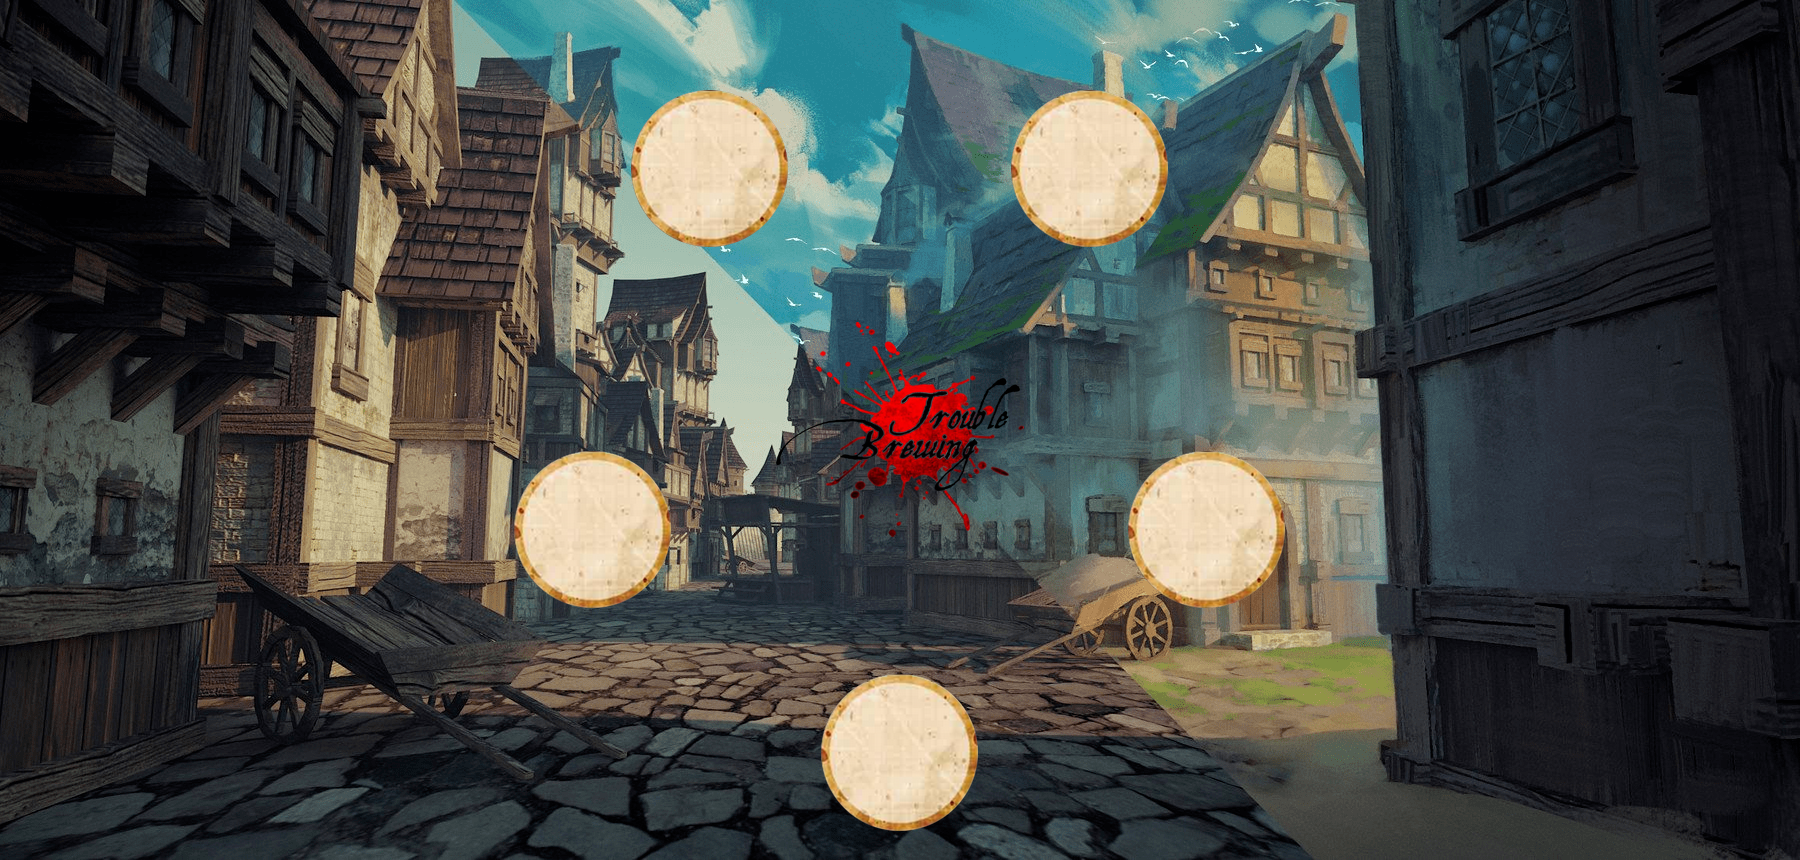
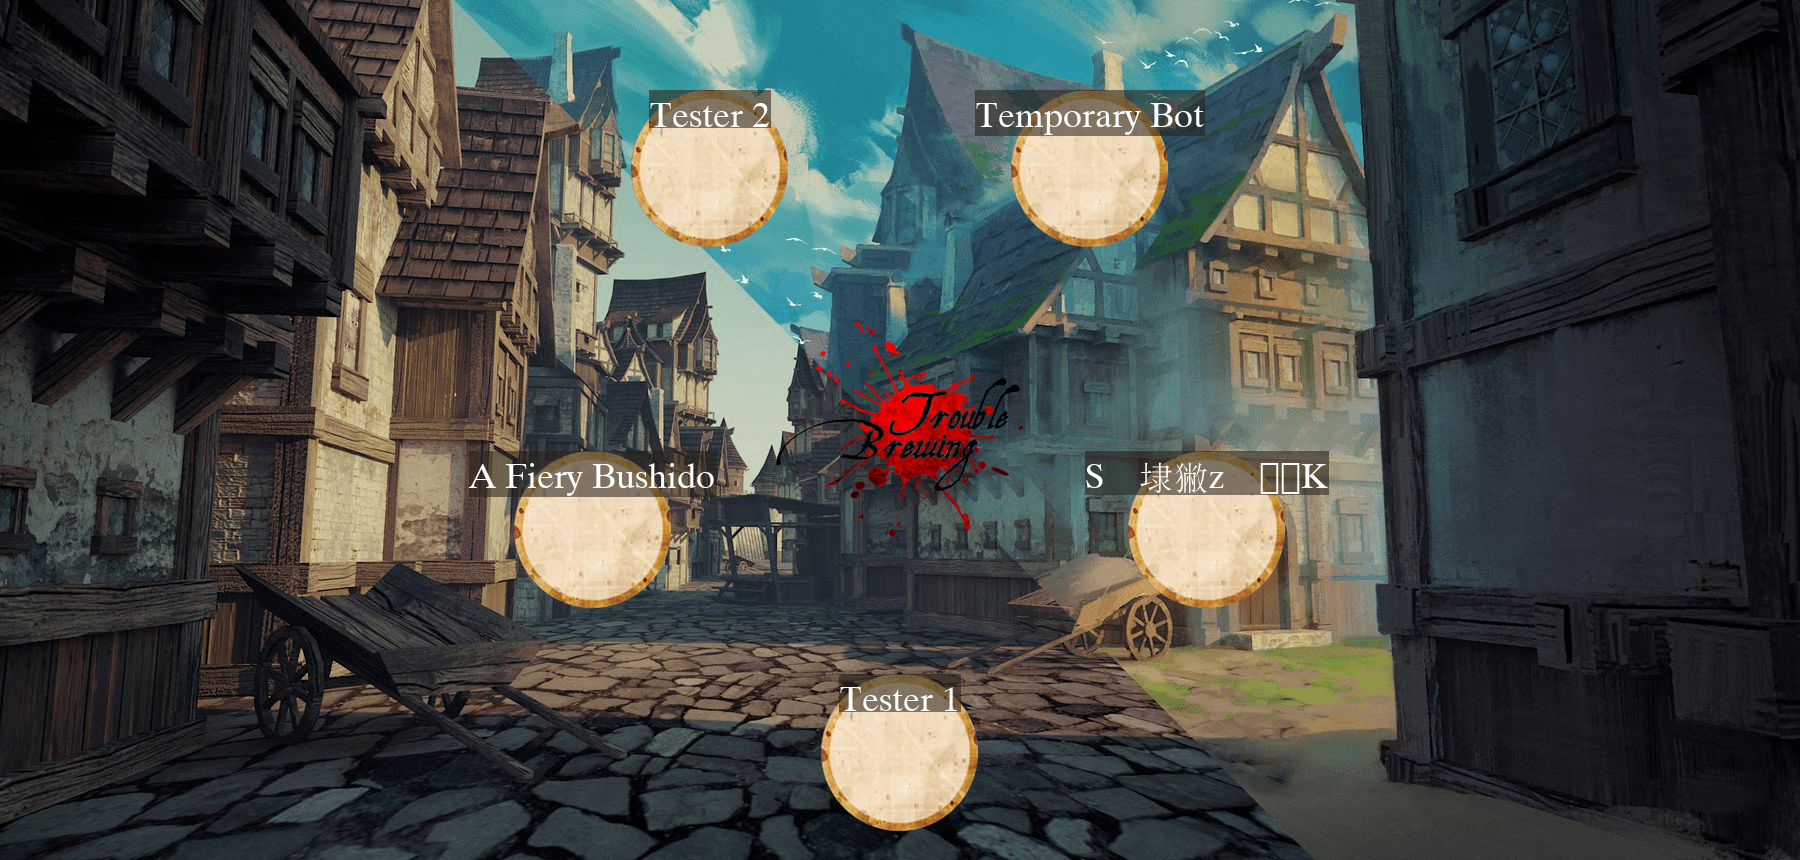
added player names for grimoire and townsquare

diff --git a/botc/Grimoire.py b/botc/Grimoire.py
@@ -1,7 +1,7 @@
 """Contains the Grimoire class"""
 
 import math
-from PIL import Image
+from PIL import Image, ImageFont, ImageDraw
 from botc.gamemodes import Gamemode
 
 
@@ -36,10 +36,17 @@ class Grimoire:
         """Find the radius of the big sitting circle based on the background size"""
         return math.ceil(self.PIC_SQUARE_SIDE * 0.75 * 0.5)
     
+    @property
+    def font_size(self):
+        """Find the font size appropriate for the size of the image"""
+        return math.ceil(self.PIC_SQUARE_SIDE * 0.04)
+    
     def create(self, game_obj):
 
         nb_players = len(game_obj.sitting_order)
         background = Image.open(self.GRIMOIRE_PATH)
+        draw = ImageDraw.Draw(background, "RGBA")
+        font = ImageFont.truetype(self.FONT, self.font_size)
         self.paste_gamemode_icon(game_obj, background)
 
         for n in range(nb_players):
@@ -78,6 +85,12 @@ class Grimoire:
                 shroud_x = int(token_center_x - thumbnail_x / 2)
                 shroud_y = int(token_center_y - self.token_width / 2)
                 background.paste(shroud, (shroud_x, shroud_y), shroud.convert("RGBA"))
+            
+            text = player_obj.user.display_name
+            w, h = font.getsize(text)
+            new_x, new_y = self.translate_text(x, y, w)
+            draw.rectangle((new_x, new_y, new_x + w, new_y + h), fill = (37, 30, 23, 140))
+            draw.text((new_x, new_y), text, (255, 255, 255), font = font)
 
         background.save(self.GRIMOIRE_PATH)
 
@@ -121,6 +134,17 @@ class Grimoire:
         image_center_y -= self.token_width / 2
 
         return(int(x + image_center_x), int(y + image_center_y))
+    
+    def translate_text(self, x, y, text_width):
+        image_center_x = self.PIC_LENGTH / 2
+        image_center_y = self.PIC_SQUARE_SIDE / 2
+
+        image_center_x -= self.token_width / 2
+        image_center_y -= self.token_width / 2
+
+        offset = (text_width - self.token_width) / 2
+
+        return(int(x + image_center_x - offset), int(y + image_center_y))
     
     def get_image(self):
         return self.GRIMOIRE_PATH

diff --git a/botc/Townsquare.py b/botc/Townsquare.py
@@ -1,7 +1,7 @@
 """Contains the Townsquare class"""
 
 import math
-from PIL import Image
+from PIL import Image, ImageFont, ImageDraw
 from botc.gamemodes import Gamemode
 
 
@@ -40,10 +40,17 @@ class Townsquare:
         """Find the radius of the big sitting circle based on the background size"""
         return math.ceil(self.PIC_SQUARE_SIDE * 0.75 * 0.5)
     
+    @property
+    def font_size(self):
+        """Find the font size appropriate for the size of the image"""
+        return math.ceil(self.PIC_SQUARE_SIDE * 0.04)
+    
     def create(self, game_obj):
 
         nb_players = len(game_obj.sitting_order)
         background = Image.open(self.TOWNSQUARE_PATH)
+        draw = ImageDraw.Draw(background, "RGBA")
+        font = ImageFont.truetype(self.FONT, self.font_size)
         self.paste_gamemode_icon(game_obj, background)
 
         for n in range(nb_players):
@@ -72,6 +79,12 @@ class Townsquare:
                 background.paste(token, (new_x, new_y), token.convert("RGBA"))
             except Exception:
                 pass
+            
+            text = player_obj.user.display_name
+            w, h = font.getsize(text)
+            new_x, new_y = self.translate_text(x, y, w)
+            draw.rectangle((new_x, new_y, new_x + w, new_y + h), fill = (37, 30, 23, 140))
+            draw.text((new_x, new_y), text, (255, 255, 255), font = font)
 
         background.save(self.TOWNSQUARE_PATH)
     
@@ -115,6 +128,17 @@ class Townsquare:
         image_center_y -= self.token_width / 2
 
         return(int(x + image_center_x), int(y + image_center_y))
+    
+    def translate_text(self, x, y, text_width):
+        image_center_x = self.PIC_LENGTH / 2
+        image_center_y = self.PIC_SQUARE_SIDE / 2
+
+        image_center_x -= self.token_width / 2
+        image_center_y -= self.token_width / 2
+
+        offset = (text_width - self.token_width) / 2
+
+        return(int(x + image_center_x - offset), int(y + image_center_y))
     
     def get_image(self):
         return self.TOWNSQUARE_PATH

diff --git a/main.py b/main.py
@@ -13,14 +13,13 @@ affiliated with them in any way.
 
 # TODO
 # Night interactions (left from investigator)
-# Spy grimoire reminder tokens and player names
+# Spy grimoire reminder tokens
 # Investigator minion bug fix
 # Lore/accompaniment strings for phase announcements
-# Townsquare public command
 # Better logging with embeds
+# Center text for townsquare
 # Winning conditions
 # Vote/lynch command to check vote stats
-# Nomination command error handling
 # Full day phase cycle
 
 
